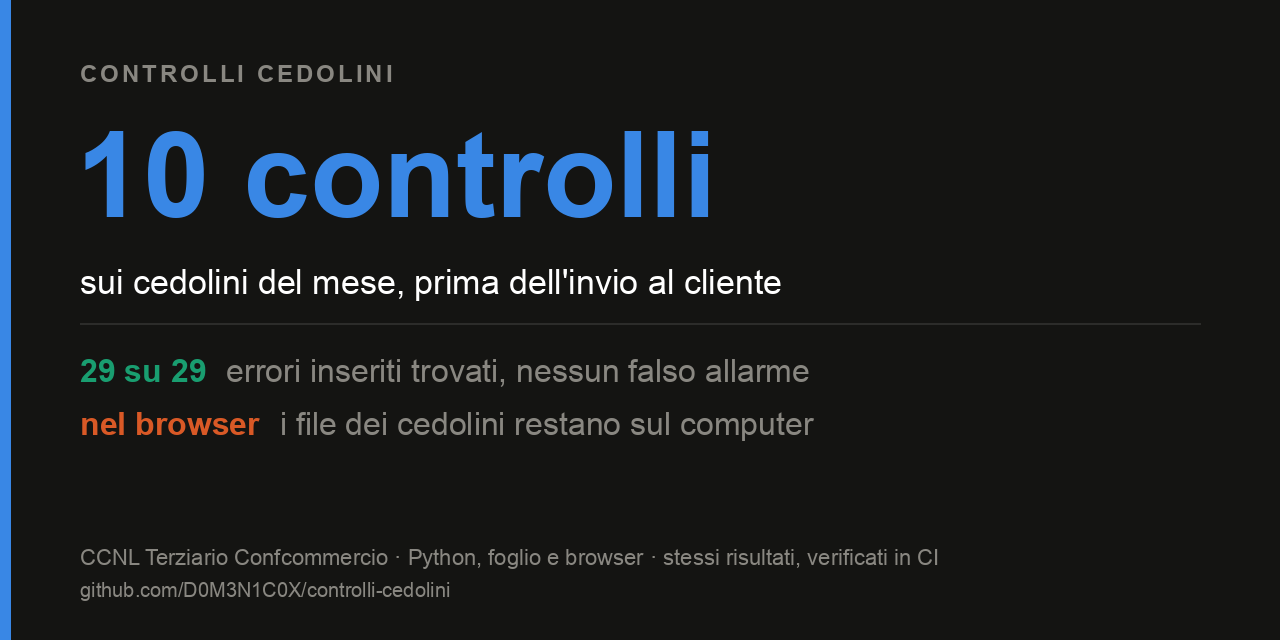
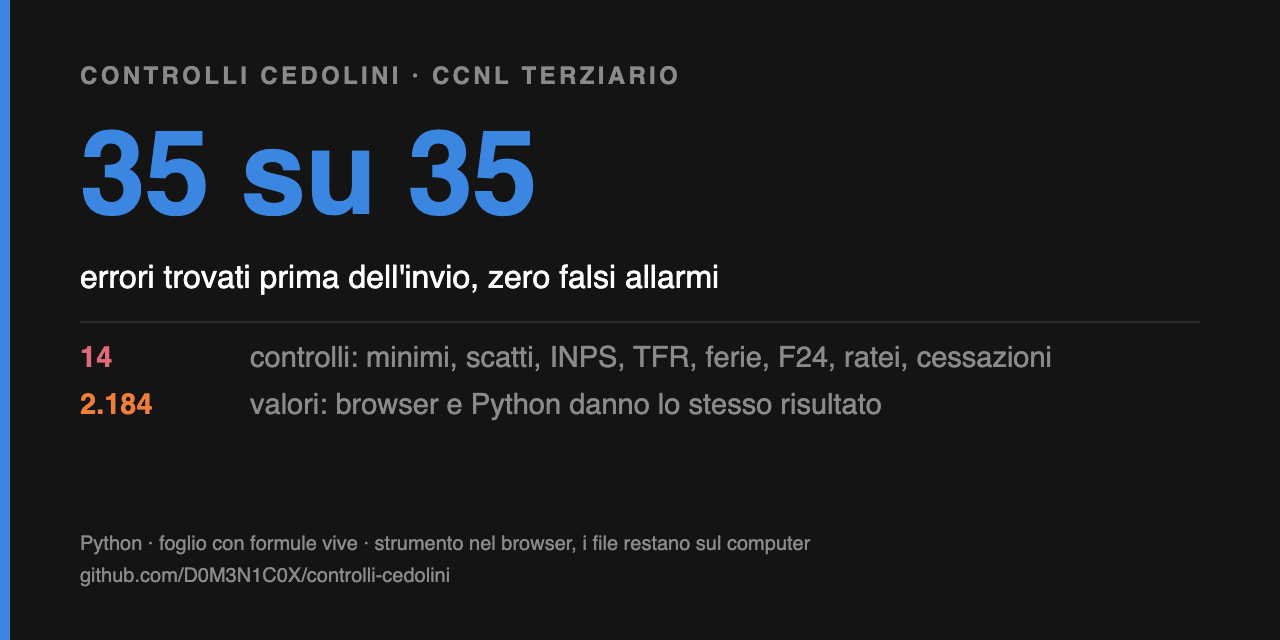
Social card: 35 of 35, fourteen checks, 2,184 values; its HTML source kept next to it

diff --git a/site-assets/og.html b/site-assets/og.html
@@ -1,0 +1,22 @@
+<!-- Sorgente di og.png (1280x640). Si rigenera con Chrome:
+     "Google Chrome" --headless=new --hide-scrollbars --window-size=1280,640 --screenshot=og.png og.html -->
+<!doctype html><html><head><meta charset="utf-8"><style>
+html,body{margin:0;width:1280px;height:640px;background:#141414;font-family:Helvetica,Arial,sans-serif;overflow:hidden}
+.bar{position:absolute;left:0;top:0;bottom:0;width:10px;background:#3a86e0}
+.w{position:absolute;left:80px;right:80px;top:62px}
+.eb{font-weight:700;font-size:24px;letter-spacing:.14em;color:#8a8a8a}
+.big{font-weight:700;font-size:118px;line-height:1.05;color:#3a86e0;margin-top:22px;letter-spacing:-.01em}
+.sub{font-size:32px;color:#fff;margin-top:22px}
+hr{border:0;border-top:2px solid #2a2a2a;margin:26px 0 18px}
+.row{display:flex;font-size:29px;color:#8a8a8a;margin:14px 0}
+.row b{width:170px;flex:none}
+.foot{position:absolute;left:80px;bottom:48px;font-size:20px;color:#8a8a8a;line-height:1.6}
+</style></head><body><div class="bar"></div><div class="w">
+<div class="eb">CONTROLLI CEDOLINI · CCNL TERZIARIO</div>
+<div class="big">35 su 35</div>
+<div class="sub">errori trovati prima dell'invio, zero falsi allarmi</div>
+<hr>
+<div class="row"><b style="color:#e06a7a">14</b><span>controlli: minimi, scatti, INPS, TFR, ferie, F24, ratei, cessazioni</span></div>
+<div class="row"><b style="color:#ef7d3c">2.184</b><span>valori: browser e Python danno lo stesso risultato</span></div>
+</div><div class="foot">Python · foglio con formule vive · strumento nel browser, i file restano sul computer<br>github.com/D0M3N1C0X/controlli-cedolini</div>
+</body></html>
